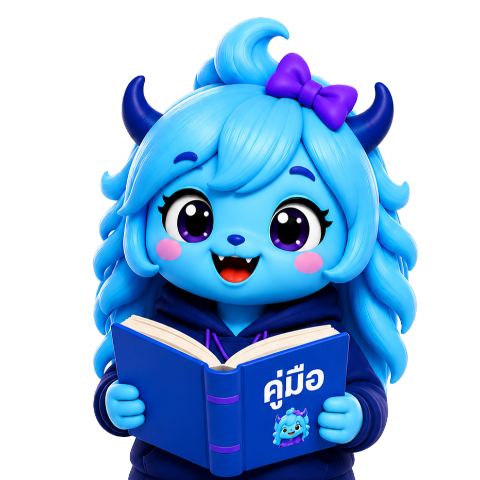
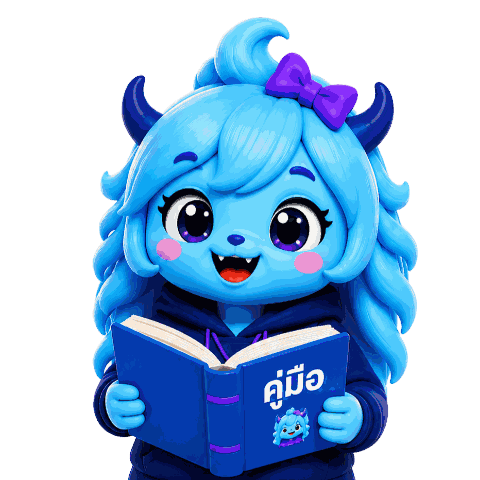
perf(web): ลดขนาดมาสคอต 85% + cache-bust เป็นช่วง 10 นาที (เลิก Date.now)
วัดจริง: เปิดเว็บครั้งหนึ่งโหลด ~690 KB (user-app.html 373 + user.css 58 + มาสคอต 253)
และเพราะ index.html เติม ?v=Date.now() → URL ไม่ซ้ำเลย เบราว์เซอร์เลย
"โหลด user-app.html ใหม่ทุกครั้ง" แคชใช้ไม่ได้

- มาสคอต 3 รูป quantize 128 สี + optimize: 712 KB → 106 KB (ขนาดภาพเท่าเดิม 480px · ตรวจตาแล้วคมชัดดี)
- index.html: ?v=<ช่วง 10 นาที> → เปิดซ้ำในช่วงเดิมใช้ไฟล์ในแคช (0 byte)
  ได้รุ่นใหม่ช้าสุด 10 นาที = เท่ากับ max-age ที่ GitHub Pages ตั้งไว้เองอยู่แล้ว

diff --git a/index.html b/index.html
@@ -26,10 +26,14 @@
         'clock': 'face-clock.html', 'face-clock': 'face-clock.html', 'face': 'face-clock.html'
       };
       var target = MAP[p] || 'user-app.html';
-      // คง p ไว้ให้หน้าปลายทางอ่านต่อ (user-app ใช้เลือก view เริ่ม: work→งานของฉัน, me→ลา) [v2]
-      // + cache-bust (v=เวลา) กัน LINE/เบราว์เซอร์ cache ไฟล์เก่า → โหลดรุ่นล่าสุดเสมอ
+      // คง p ไว้ให้หน้าปลายทางอ่านต่อ (user-app ใช้เลือก view เริ่ม) [v3]
+      // cache-bust แบบ "ช่วง 10 นาที" ไม่ใช่ Date.now() —
+      //   Date.now() ทำให้ URL ไม่ซ้ำเลย → เบราว์เซอร์ต้องโหลด user-app.html (~370KB) ใหม่ทุกครั้งที่เปิด
+      //   ช่วง 10 นาที = เปิดซ้ำในช่วงเดิมใช้ไฟล์ในแคช (0 byte) · ได้รุ่นใหม่ช้าสุด 10 นาที
+      //   (เท่ากับ max-age ของ GitHub Pages เอง → ไม่ทำให้ของใหม่มาช้าลงกว่าเดิม)
       var rest = q.toString();
-      location.replace(target + '?v=' + Date.now() + (rest ? '&' + rest : ''));
+      var bucket = Math.floor(Date.now() / 600000);   // 600000 ms = 10 นาที
+      location.replace(target + '?v=' + bucket + (rest ? '&' + rest : ''));
     })();
   </script>
 </body>
